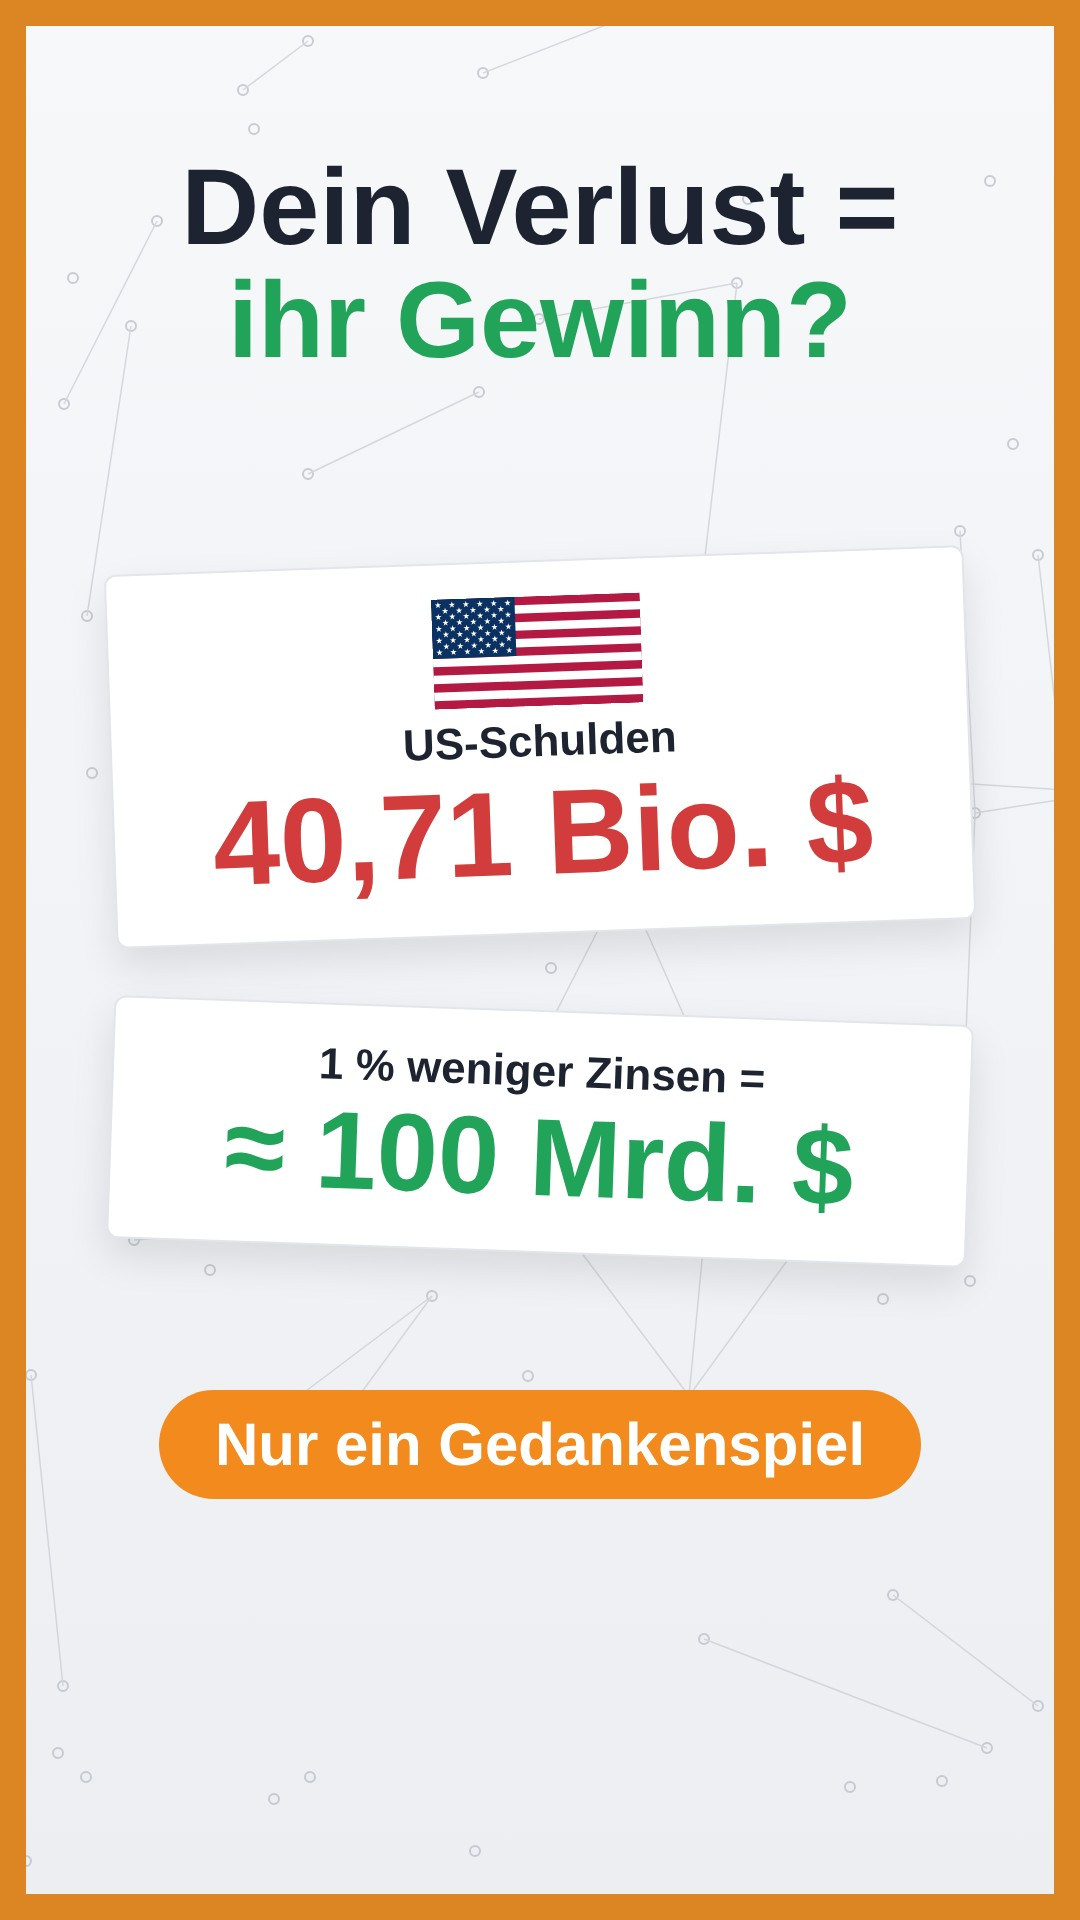
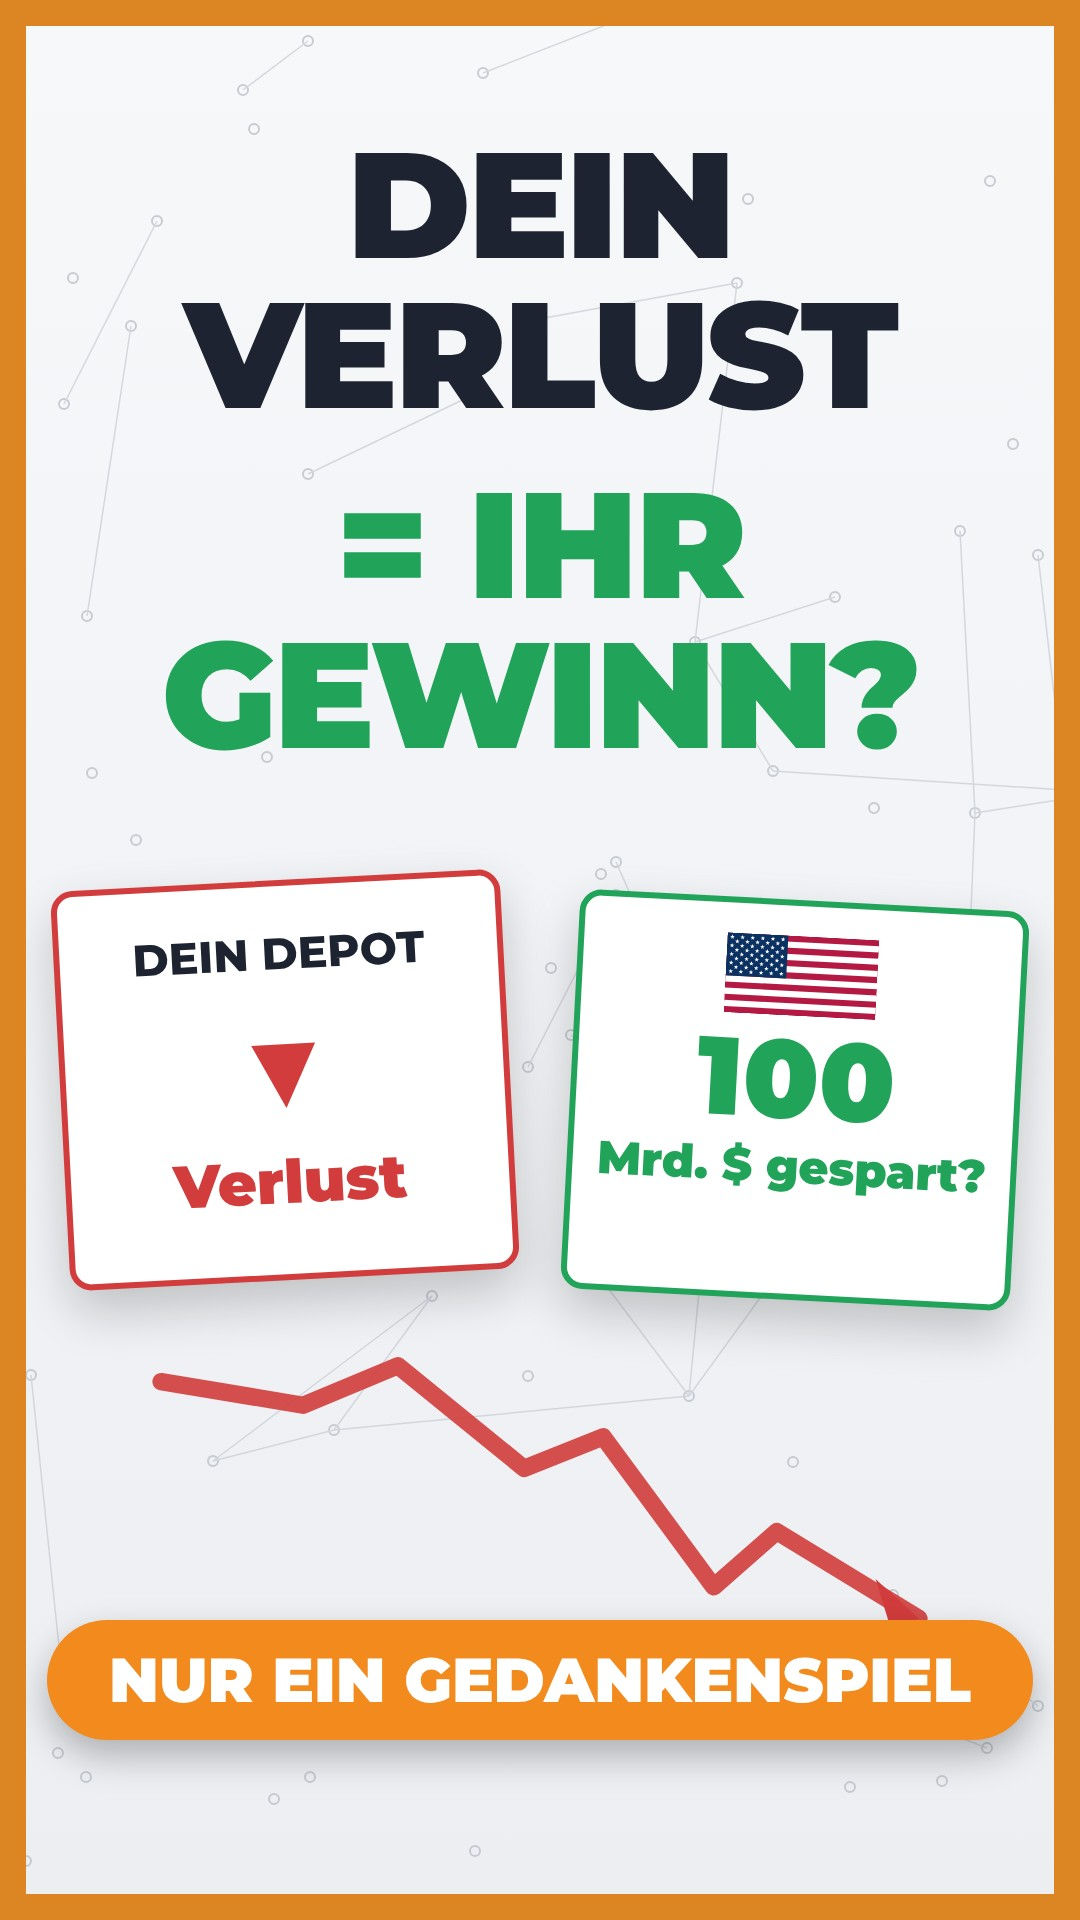
Cover-Stil neu: Montserrat eingebunden, größere Typo, volle Fläche
Claude-Session: https://claude.ai/code/session_01FsjuXdcJciSaWpvV4H8two

Changed region(s): [[0.0306, 0.25, 0.9778, 0.9375], [0.1528, 0.0625, 0.8556, 0.2188]]

diff --git a/videos/crash-usa-schulden/cover.py b/videos/crash-usa-schulden/cover.py
@@ -1,9 +1,14 @@
 import sys; sys.path.insert(0, "/home/user/tiktok-videos/scripts")
 import cover_hell as ch
-G, R, O, D = ch.G, ch.ROT, ch.O, ch.D
-L = "/home/user/tiktok-videos/brand/logos/"
-inhalt = (f'<div style="position:absolute;top:150px;width:1080px;text-align:center;font-weight:900;font-size:108px;color:{D};line-height:1.05">Dein Verlust =<br/><span style="color:{G}">ihr Gewinn?</span></div>'
-  f'<div class="karte" style="left:110px;top:560px;width:860px;text-align:center;transform:rotate(-2deg)"><img src="file://{L}flagge-usa.svg" style="height:110px"/><div style="font-weight:800;font-size:44px;color:{D};margin-top:10px">US-Schulden</div><div style="font-weight:900;font-size:120px;color:{R};line-height:1.1">40,71 Bio. $</div></div>'
-  f'<div class="karte" style="left:110px;top:1010px;width:860px;text-align:center;transform:rotate(2deg)"><div style="font-weight:800;font-size:44px;color:{D}">1 % weniger Zinsen =</div><div style="font-weight:900;font-size:110px;color:{G};line-height:1.1">≈ 100 Mrd. $</div></div>'
-  f'<div style="position:absolute;top:1390px;width:1080px;display:flex;justify-content:center"><span style="padding:20px 56px;border-radius:70px;background:{O};color:#fff;font-weight:900;font-size:60px">Nur ein Gedankenspiel</span></div>')
+G, R, O, D, L = ch.G, ch.ROT, ch.O, ch.D, ch.L
+chart = (f'<svg style="position:absolute;left:60px;top:1350px;width:960px;height:300px;z-index:3" viewBox="0 0 960 380"><path d="M0 40 L180 70 L300 20 L460 150 L560 110 L700 300 L780 230 L960 340" fill="none" stroke="{R}" stroke-width="22" stroke-linejoin="round" stroke-linecap="round" opacity=".9"/>'
+         f'<polygon points="960,340 905,290 925,355" fill="{R}"/></svg>')
+inhalt = (chart
+  + f'<div style="position:absolute;top:130px;width:1080px;text-align:center;font-weight:900;font-size:150px;line-height:1.0;color:{D};letter-spacing:-3px">DEIN<br/>VERLUST</div>'
+  f'<div style="position:absolute;top:470px;width:1080px;text-align:center;font-weight:900;font-size:150px;line-height:1.0;color:{G};letter-spacing:-3px">= IHR<br/>GEWINN?</div>'
+  f'<div style="position:absolute;left:60px;top:880px;width:450px;height:400px;background:#fff;border:6px solid {R};border-radius:22px;box-shadow:0 22px 50px #0003;text-align:center;padding-top:40px;transform:rotate(-3deg);z-index:4">'
+  f'<div style="font-weight:800;font-size:44px;color:{D}">DEIN DEPOT</div><div style="font-weight:900;font-size:150px;color:{R};line-height:1.1">▼</div><div style="font-weight:900;font-size:60px;color:{R}">Verlust</div></div>'
+  f'<div style="position:absolute;left:570px;top:900px;width:450px;height:400px;background:#fff;border:6px solid {G};border-radius:22px;box-shadow:0 22px 50px #0003;text-align:center;padding-top:30px;transform:rotate(3deg);z-index:4">'
+  f'<img src="file://{L}flagge-usa.svg" style="height:80px"/><div style="font-weight:900;font-size:110px;color:{G};line-height:1.05;margin-top:6px">100</div><div style="font-weight:900;font-size:46px;color:{G}">Mrd. $ gespart?</div></div>'
+  f'<div style="position:absolute;top:1620px;width:1080px;display:flex;justify-content:center;z-index:5"><span style="padding:22px 62px;border-radius:80px;background:{O};color:#fff;font-weight:900;font-size:62px;box-shadow:0 16px 36px #0004">NUR EIN GEDANKENSPIEL</span></div>')
 ch.speichern(inhalt, "/home/user/tiktok-videos/renders/thumbnails/crash-usa-schulden-tiktok.jpg")

diff --git a/scripts/cover_hell.py b/scripts/cover_hell.py
@@ -7,7 +7,7 @@ import subprocess
 import tempfile
 from pathlib import Path
 
-R = "/home/user/TikTok-Videos/"
+R = str(Path(__file__).resolve().parent.parent) + "/"
 L = R + "brand/logos/"
 G, ROT, O, D = "#22a35a", "#d23c3c", "#f28a1e", "#1d2330"
 
@@ -24,7 +24,7 @@ def netz(w=1080, h=1920):
 
 
 def css(w=1080, h=1920):
-    return (f"<style>*{{margin:0;box-sizing:border-box}}body{{width:{w}px;height:{h}px;position:relative;overflow:hidden;font-family:Montserrat,sans-serif;"
+    return (f"<style>@font-face{{font-family:Montserrat;font-weight:100 900;src:url(file://{R}brand/fonts/montserrat-900.woff2)}}*{{margin:0;box-sizing:border-box}}body{{width:{w}px;height:{h}px;position:relative;overflow:hidden;font-family:Montserrat,sans-serif;"
             "background:linear-gradient(180deg,#f7f8fa,#eceef2)}"
             ".karte{position:absolute;background:#fff;border:2px solid #e2e5ea;border-radius:12px;box-shadow:0 18px 40px #0000001a;padding:34px 40px}</style>")
 

diff --git a/CLAUDE.md b/CLAUDE.md
@@ -38,6 +38,7 @@ Videos werden mit HyperFrames (HTML + GSAP → MP4) gebaut. Skills: `.claude/ski
 - Setup-Skript enthält yt-dlp/ffmpeg/whisper; TikTok-Hosts sind freigegeben; Sprache→Text per ElevenLabs (Whisper-Modell gesperrt).
 - **Satz-Reihenfolge am Ende (Nutzer 23.11.):** vorletzter Satz = Folgen-CTA („Folge HundeFinanzTv …“), LETZTER Satz = „Kurzer Hinweis: Das ist keine Anlageberatung, nur eine Erklärung.“ (ersetzt die alte Regel „Folgen-CTA zuletzt“)
 - Ab 19.11. ALLE Videos (auch Longform) nur 61–75 s, bis der Nutzer etwas anderes sagt (2–3 Min. liefen schlecht). Logo-Intro wie beim Short nach ca. 15 s
+- **Covers (Nutzer 24.11.: „sehen schrecklich aus“):** Ursache war fehlende Schrift (Fallback Arial). `cover_hell.py` bindet jetzt Montserrat aus `brand/fonts/` ein. Neuer Stil: RIESIGE Überschrift (≈150 px, 2 Zeilen, Großbuchstaben), 2 große Kontrast-Karten (rot/grün) mit EINER fetten Zahl, dynamisches Element (Kurve/Pfeil), orange Pille unten, ganze Fläche nutzen (kein leeres Drittel). Vorbild: `videos/crash-usa-schulden/cover.py`.
 - Oranger Rahmen immer bei Video und Thumbnail
 - Kein Thema/keine Firma innerhalb von 30 Tagen wiederholen (auch nicht mit „neuem Blickwinkel“); Bereiche abwechseln, Börse/KI selten
 - Abend-Börsenrückblick startet immer mit „Alles, was heute an der Börse passiert ist – in 60 Sekunden.“
